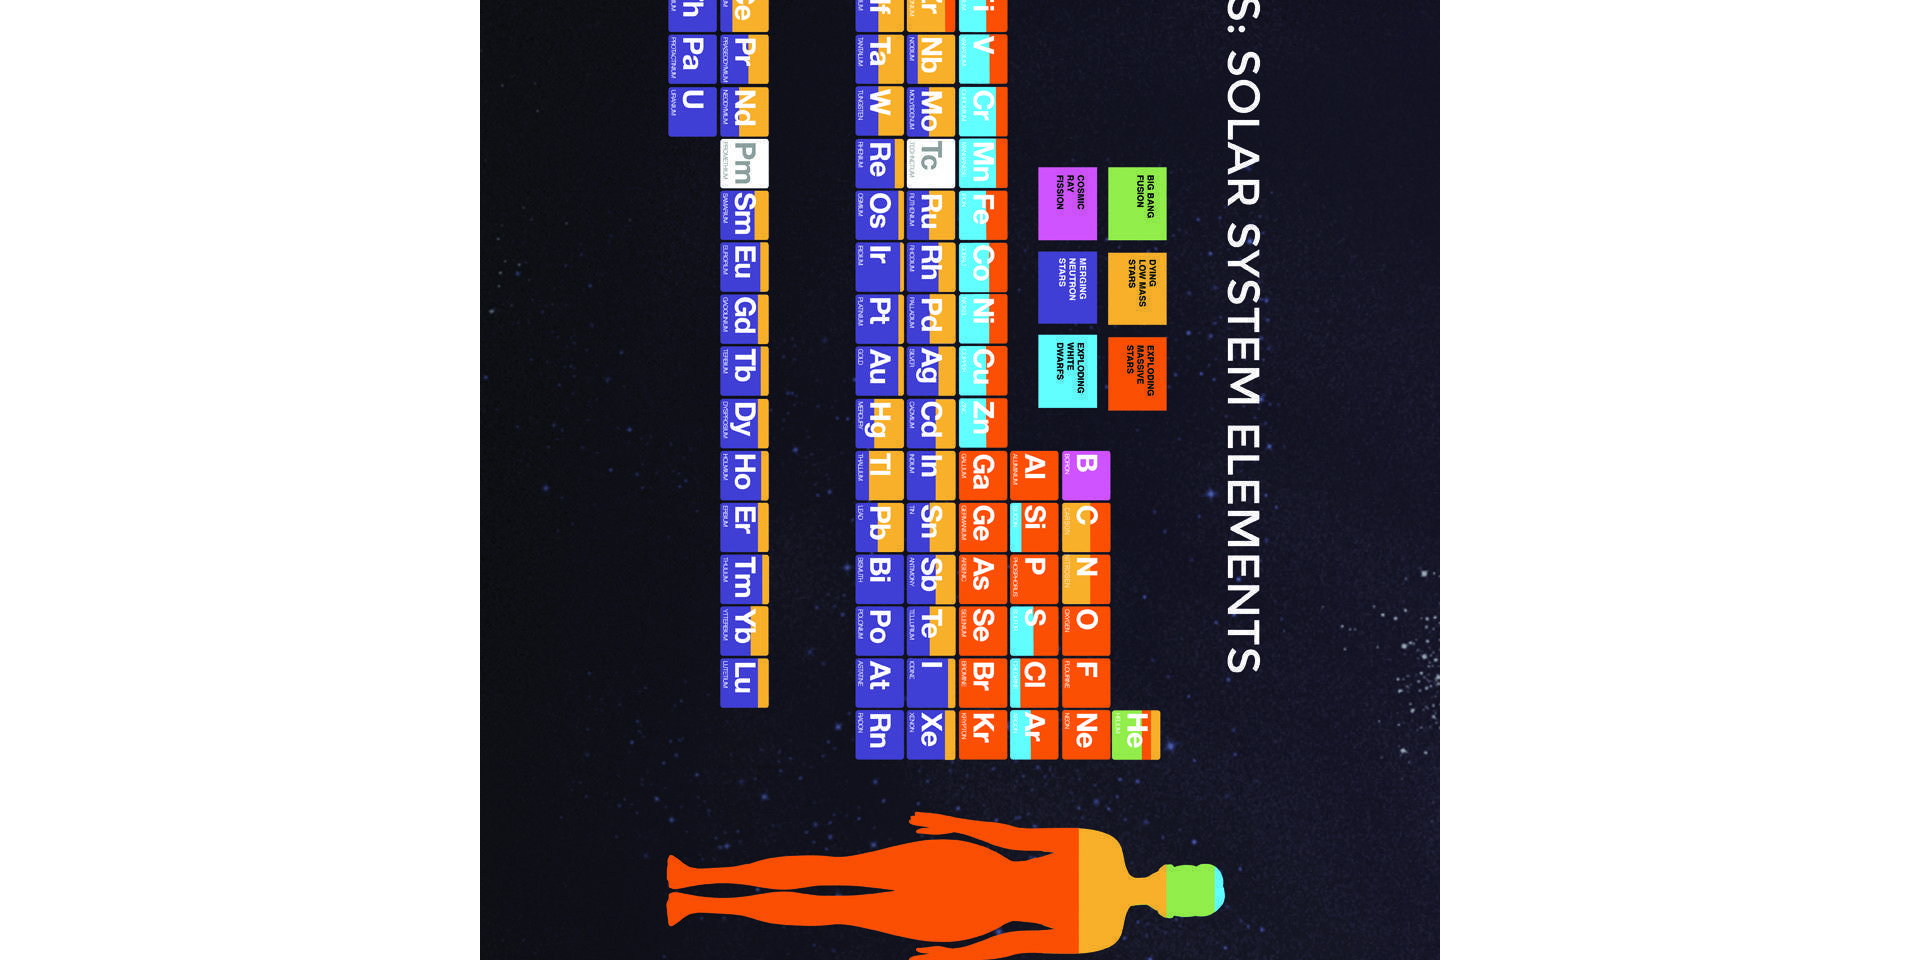
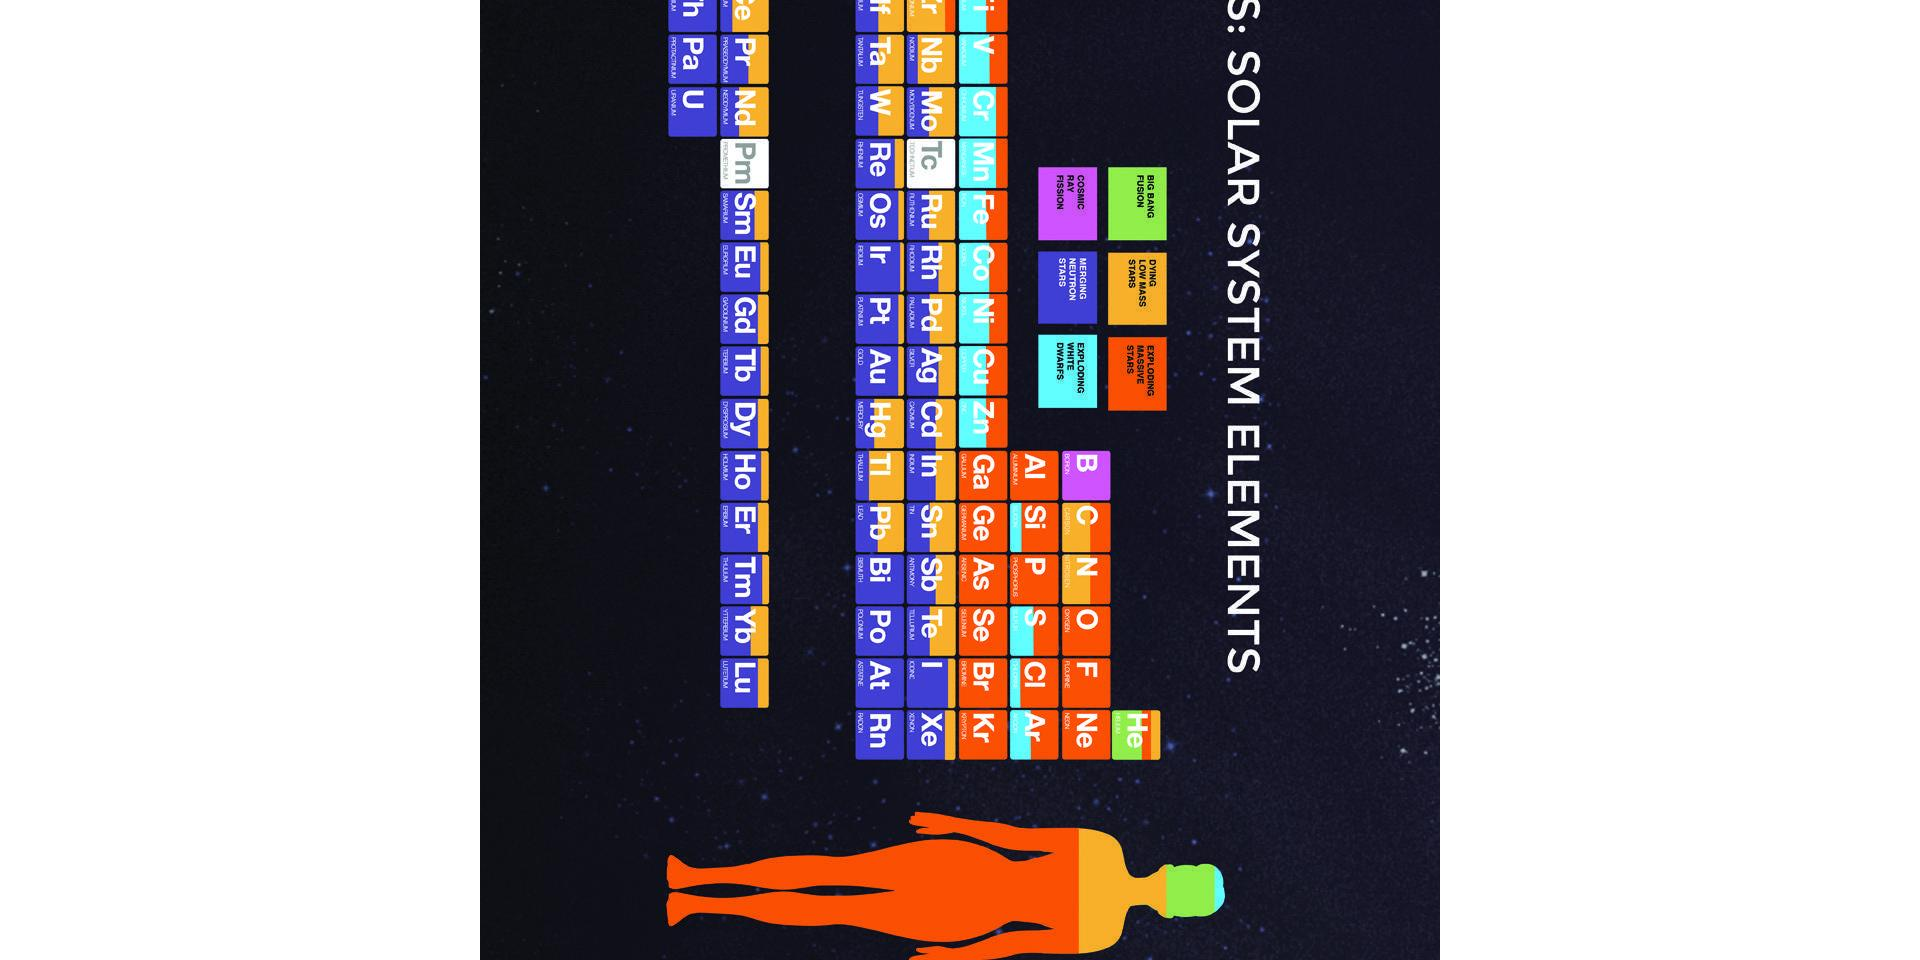
add jpeg test images

diff --git a/code/rotate_images.py b/code/rotate_images.py
@@ -12,7 +12,9 @@ def rotate_images(directory, rotated_directory):
             try:
                 original_image = Image.open(path)
                 rotated_image = original_image.rotate(-90)
+                rotated_image = rotated_image.convert('RGB')
                 rotated_path = os.path.join(rotated_directory, filename)
+                rotated_path = rotated_path.replace(".png", ".jpg")
                 rotated_image.save(rotated_path)
                 print("saved " + rotated_path + "!")
             except:
